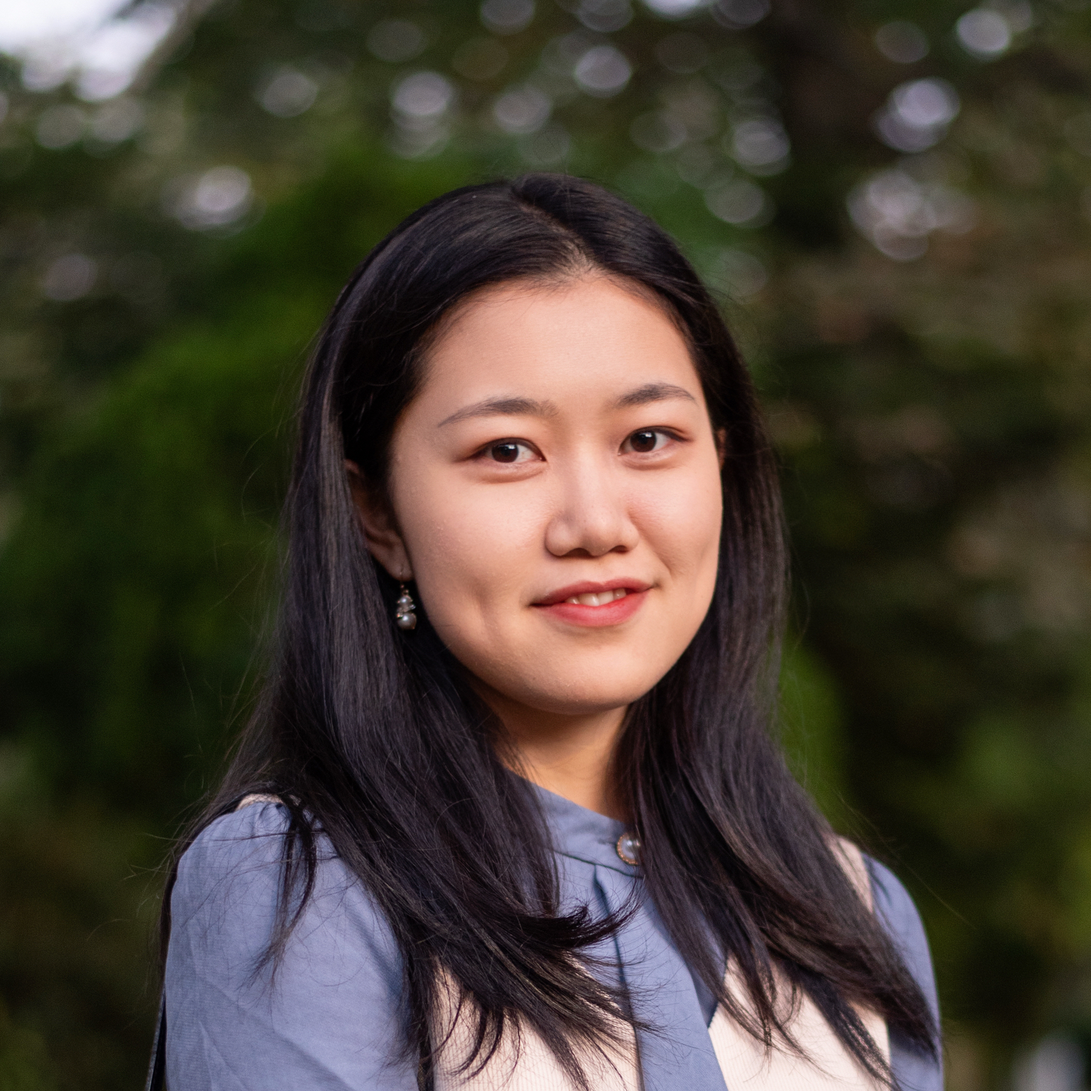
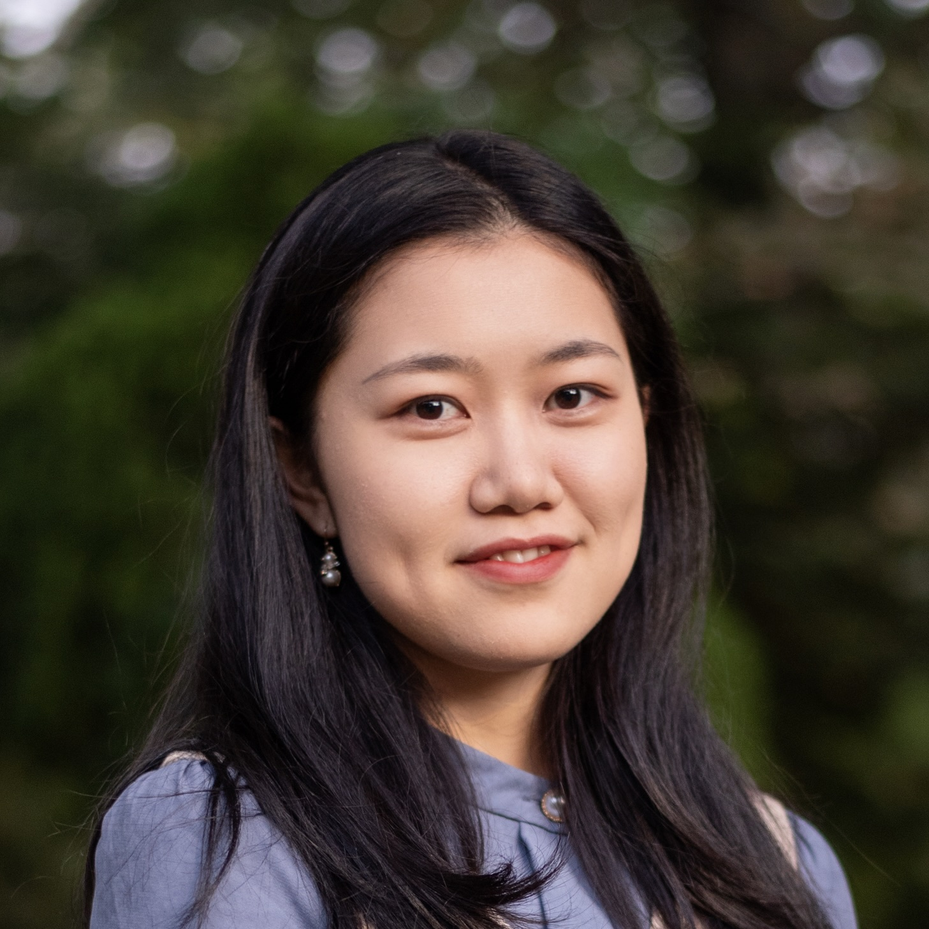
change photo

diff --git a/_pages/about.md b/_pages/about.md
@@ -12,7 +12,7 @@ Welcome! This is Ziqing Yan. I am a PhD Candidate in Economics at Yale Universit
 
 The best way to contact me is via email at ziqing.yan@yale.edu
 
-<br><br>
+<br>
 
 # Research 
 
